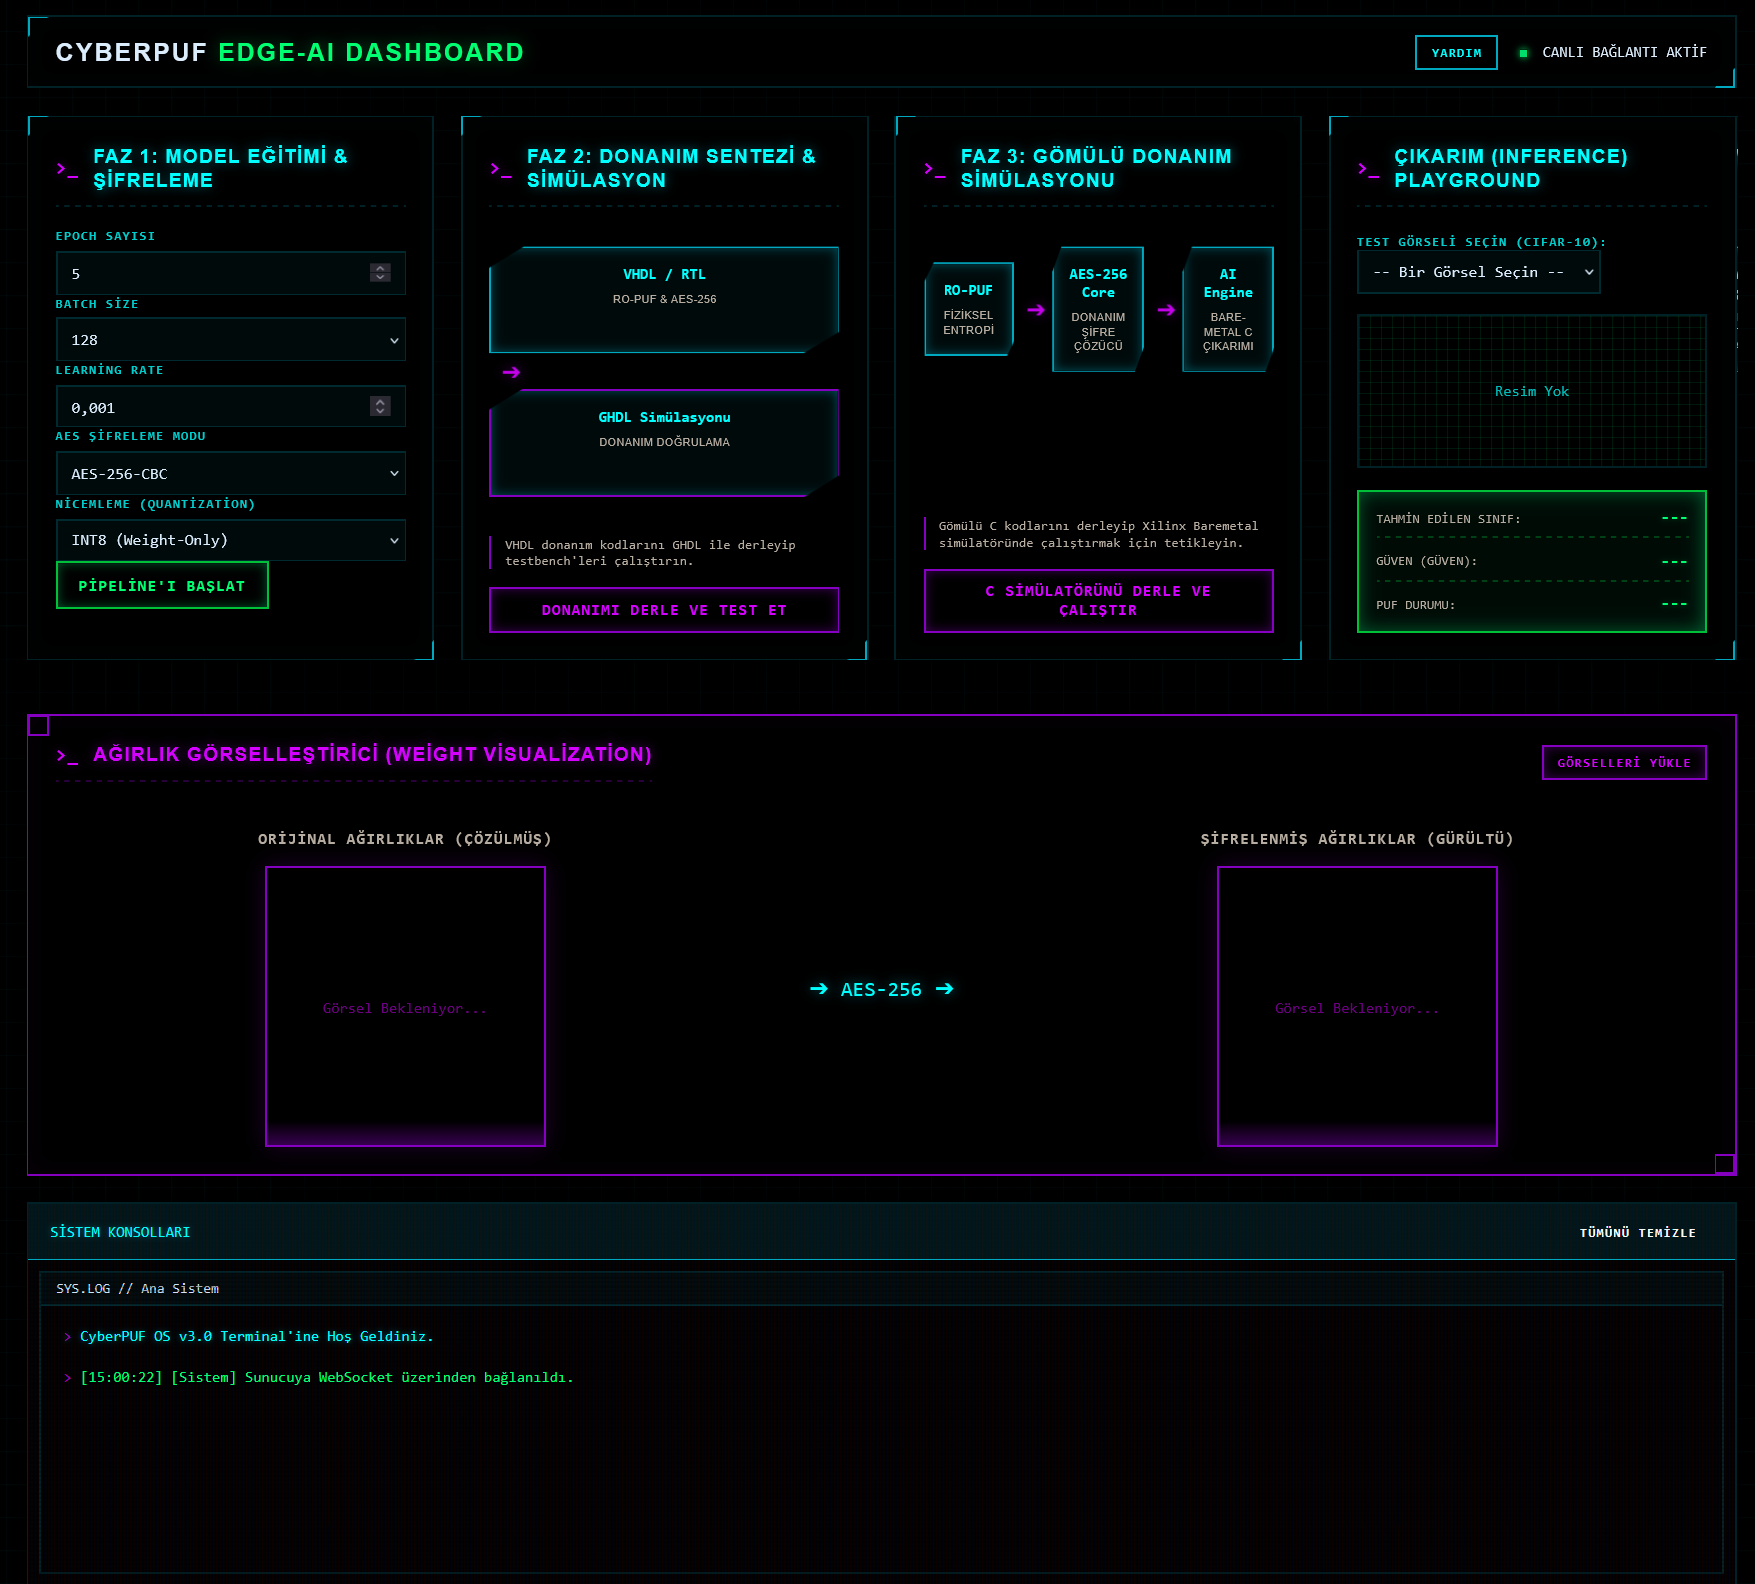
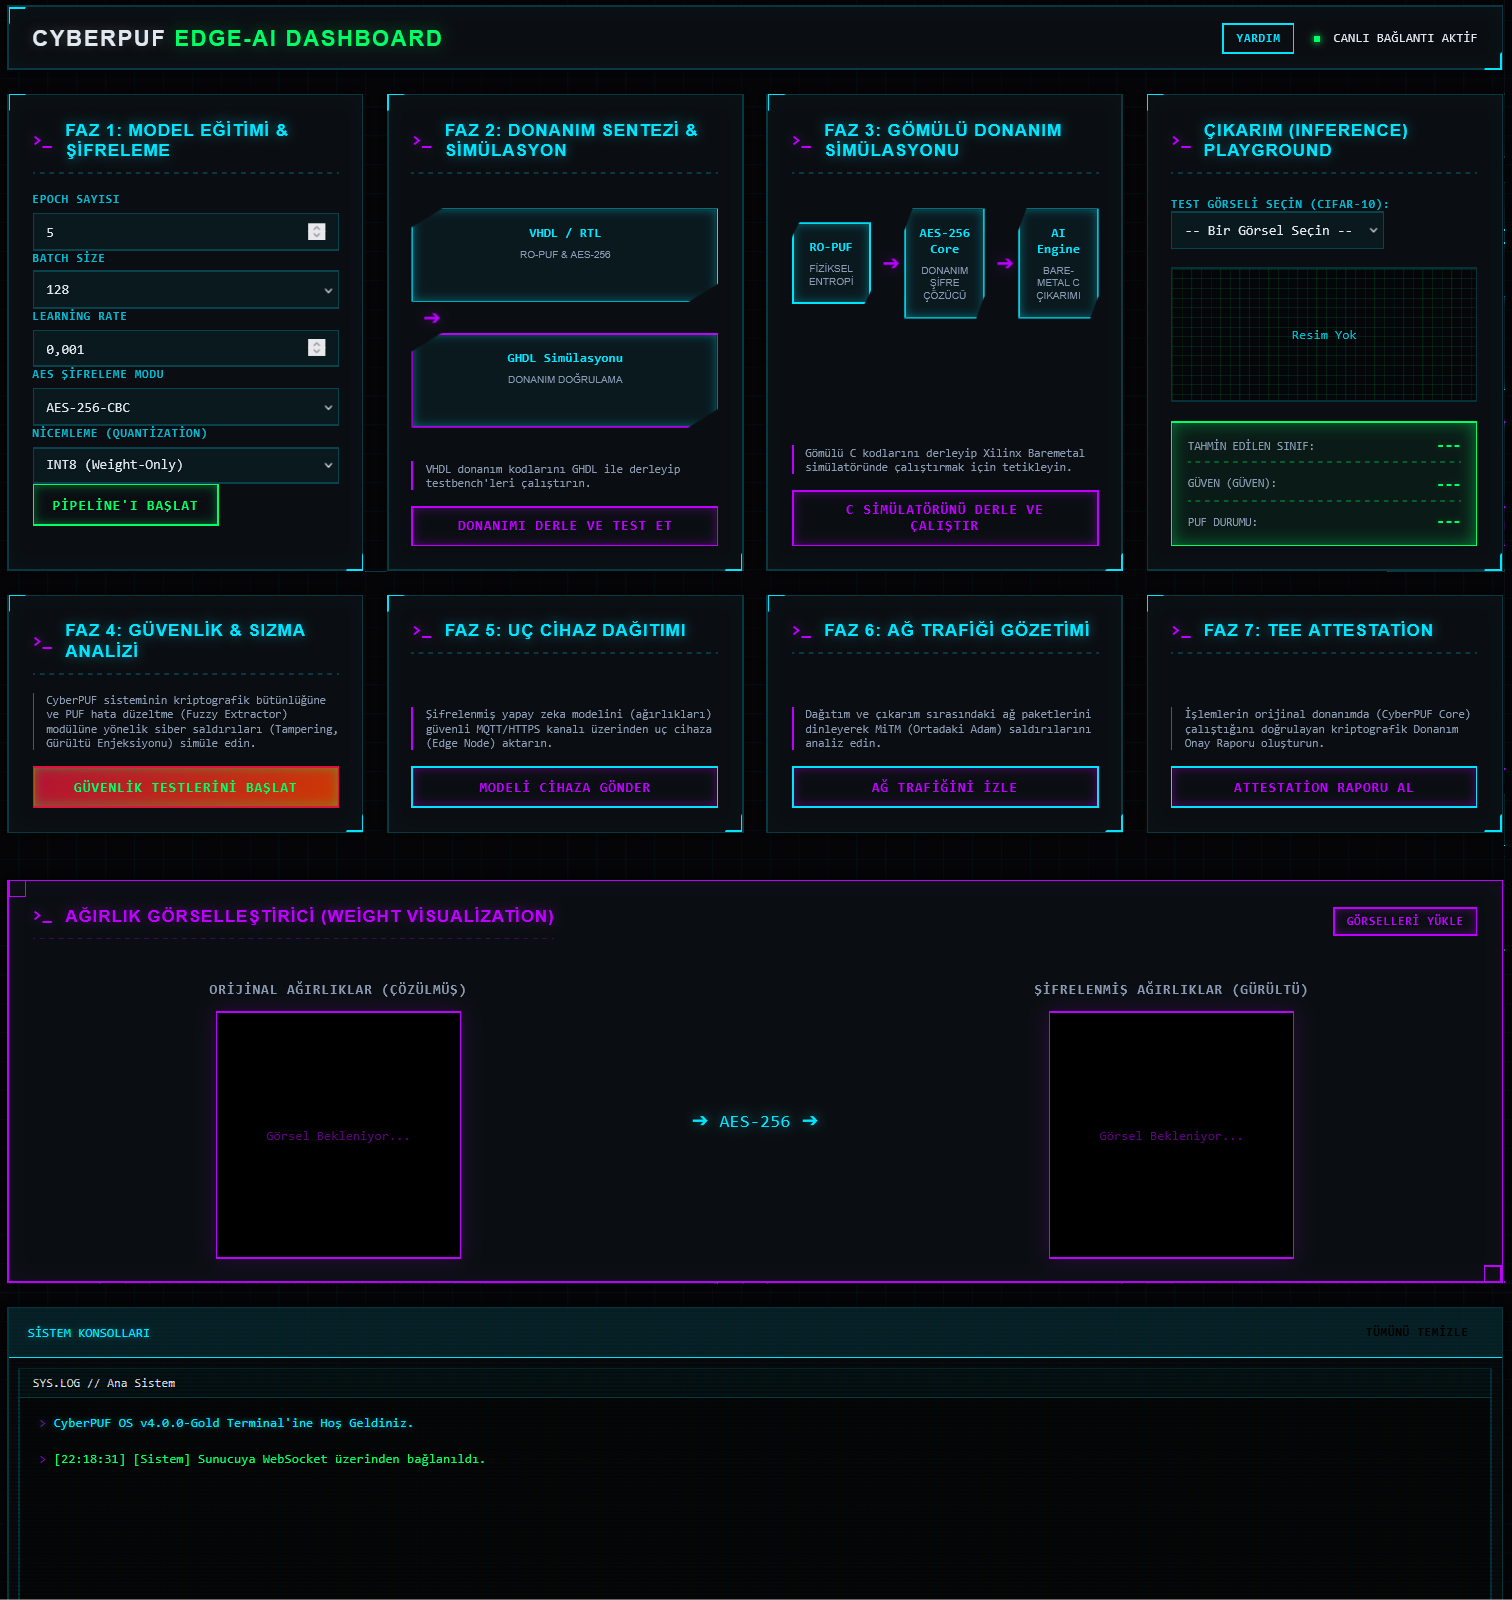
docs: README ekran goruntusu guncellendi

diff --git a/README.md b/README.md
@@ -1,6 +1,6 @@
 # CyberPUF: PUF Tabanlı Uç Yapay Zeka (Edge-AI) Model Ağırlığı Şifrelemesi
 
-![CyberPUF Web Dashboard](ekran_goruntuleri/1.png)
+![CyberPUF Web Dashboard](ekran_goruntuleri/1.png?v=4.0.0-Gold)
 [Türkçe](#turkce) | [English](#english)
 
 ---
